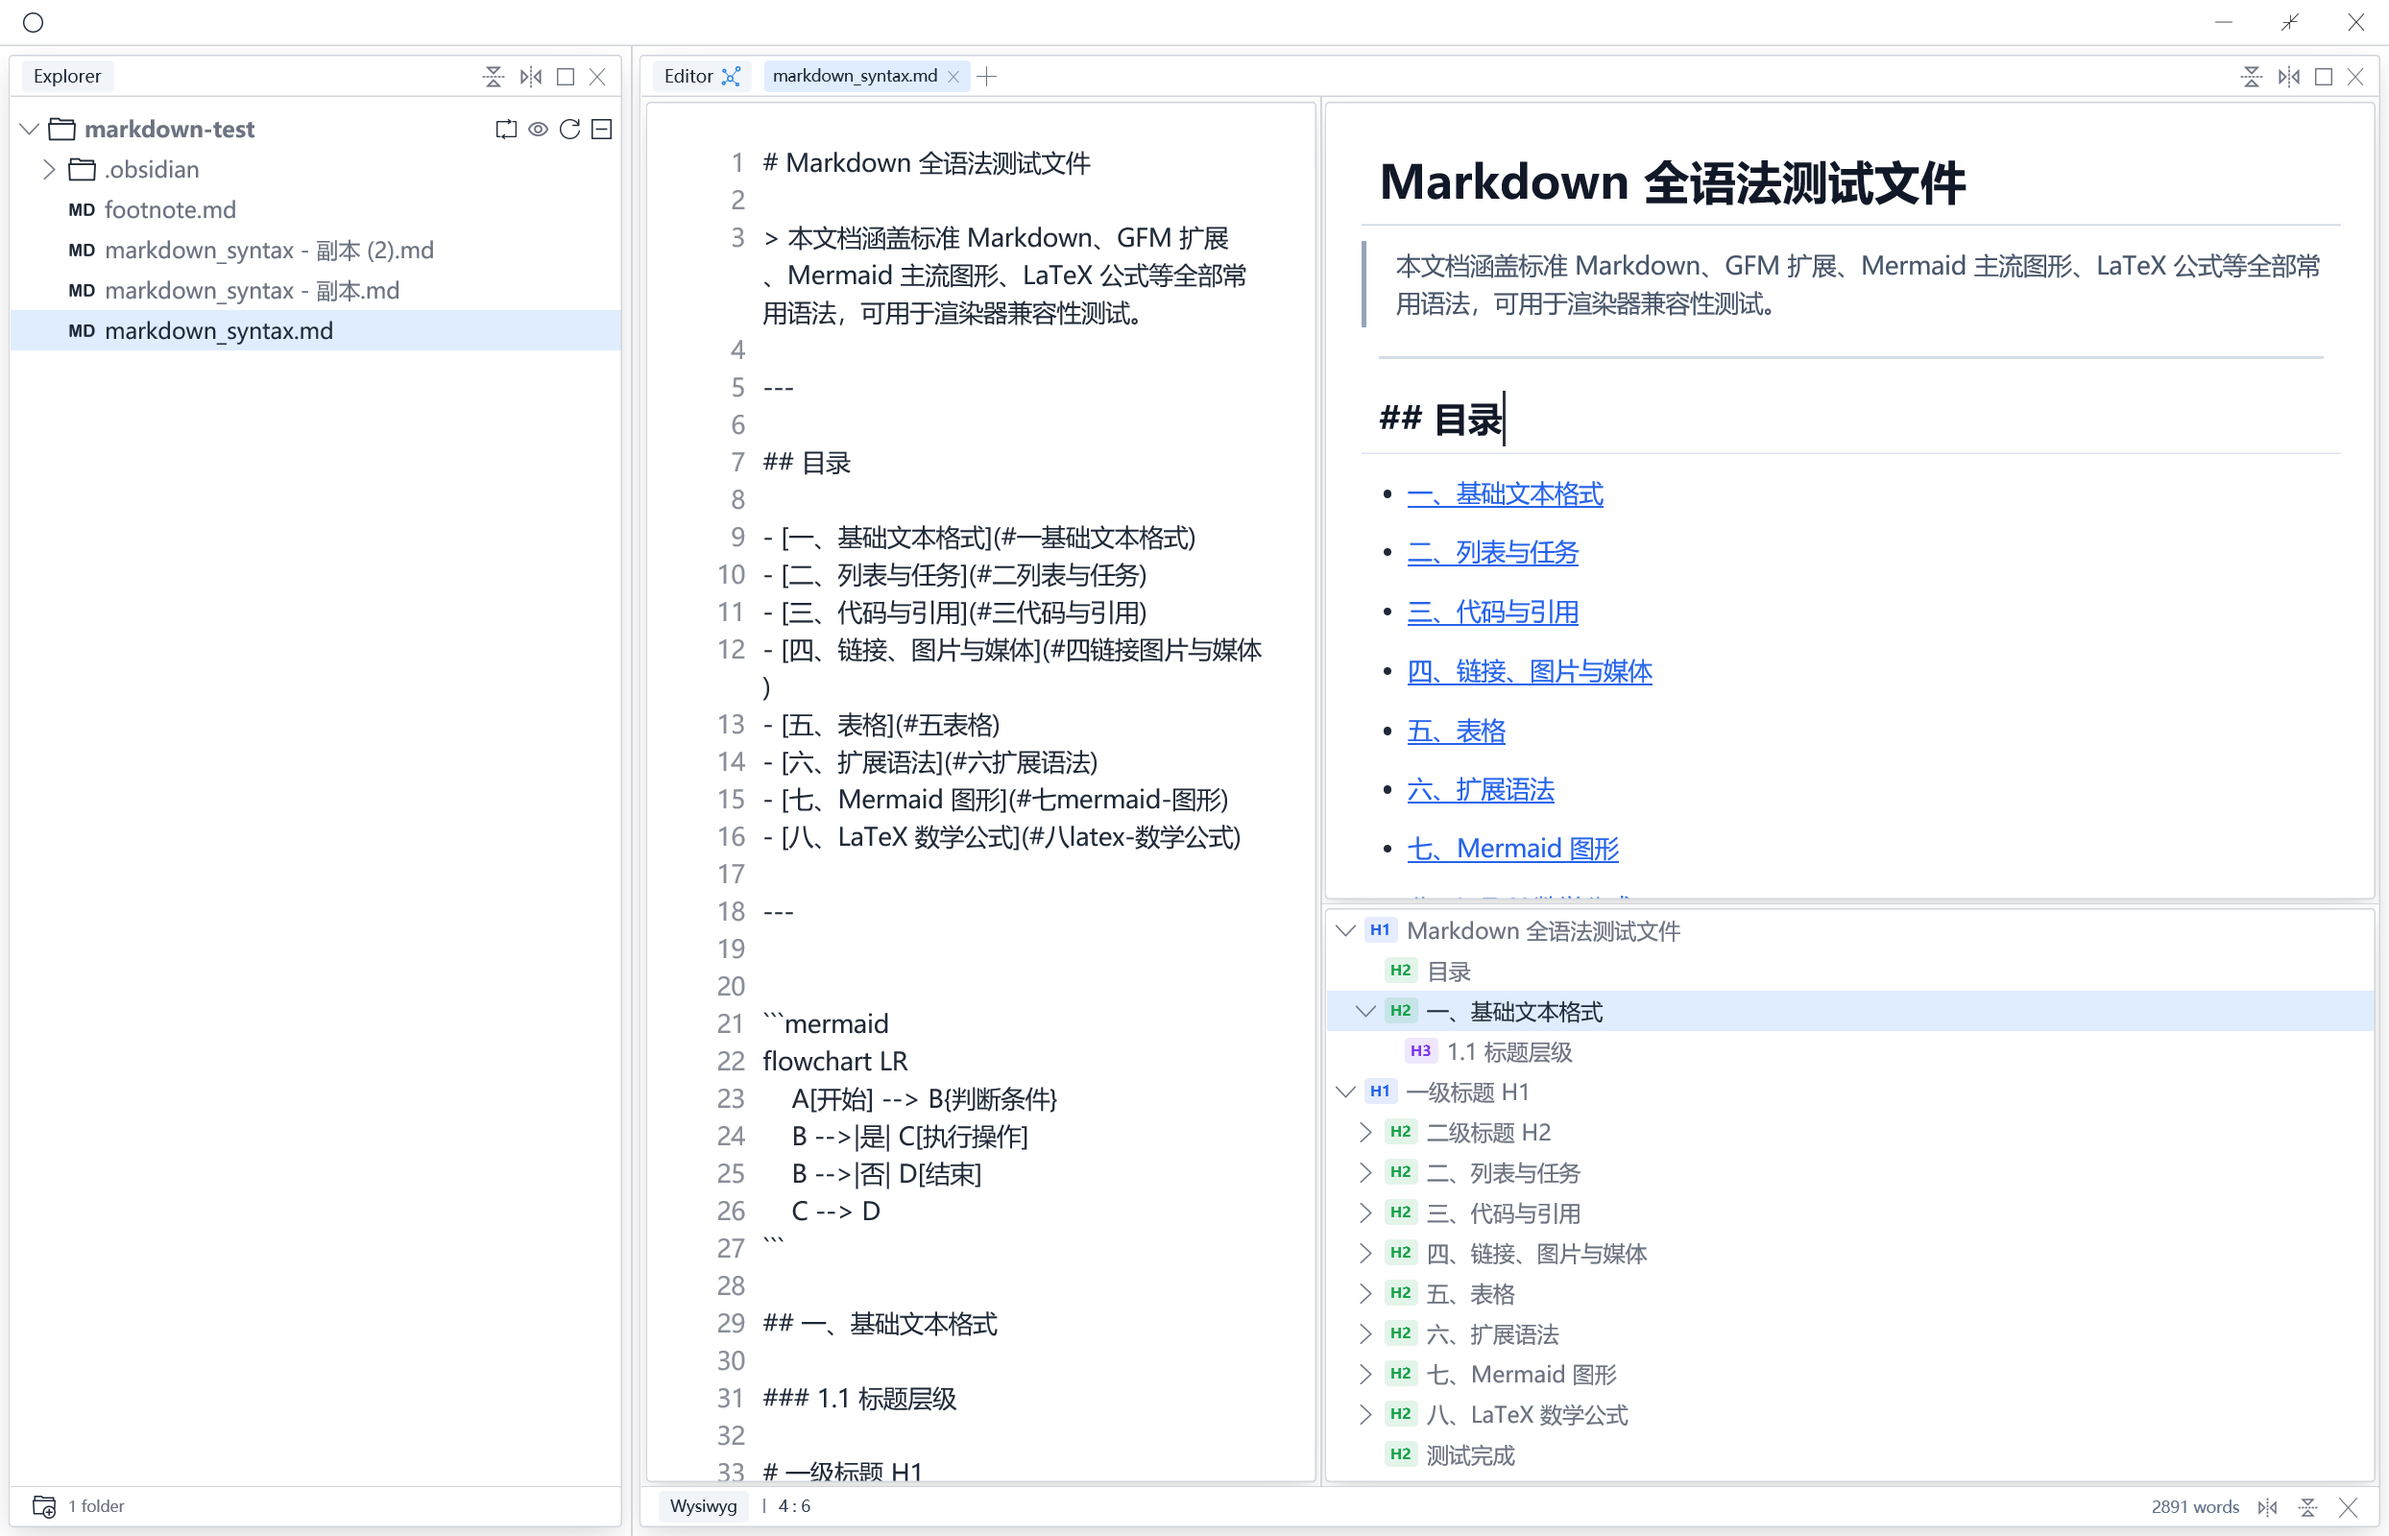
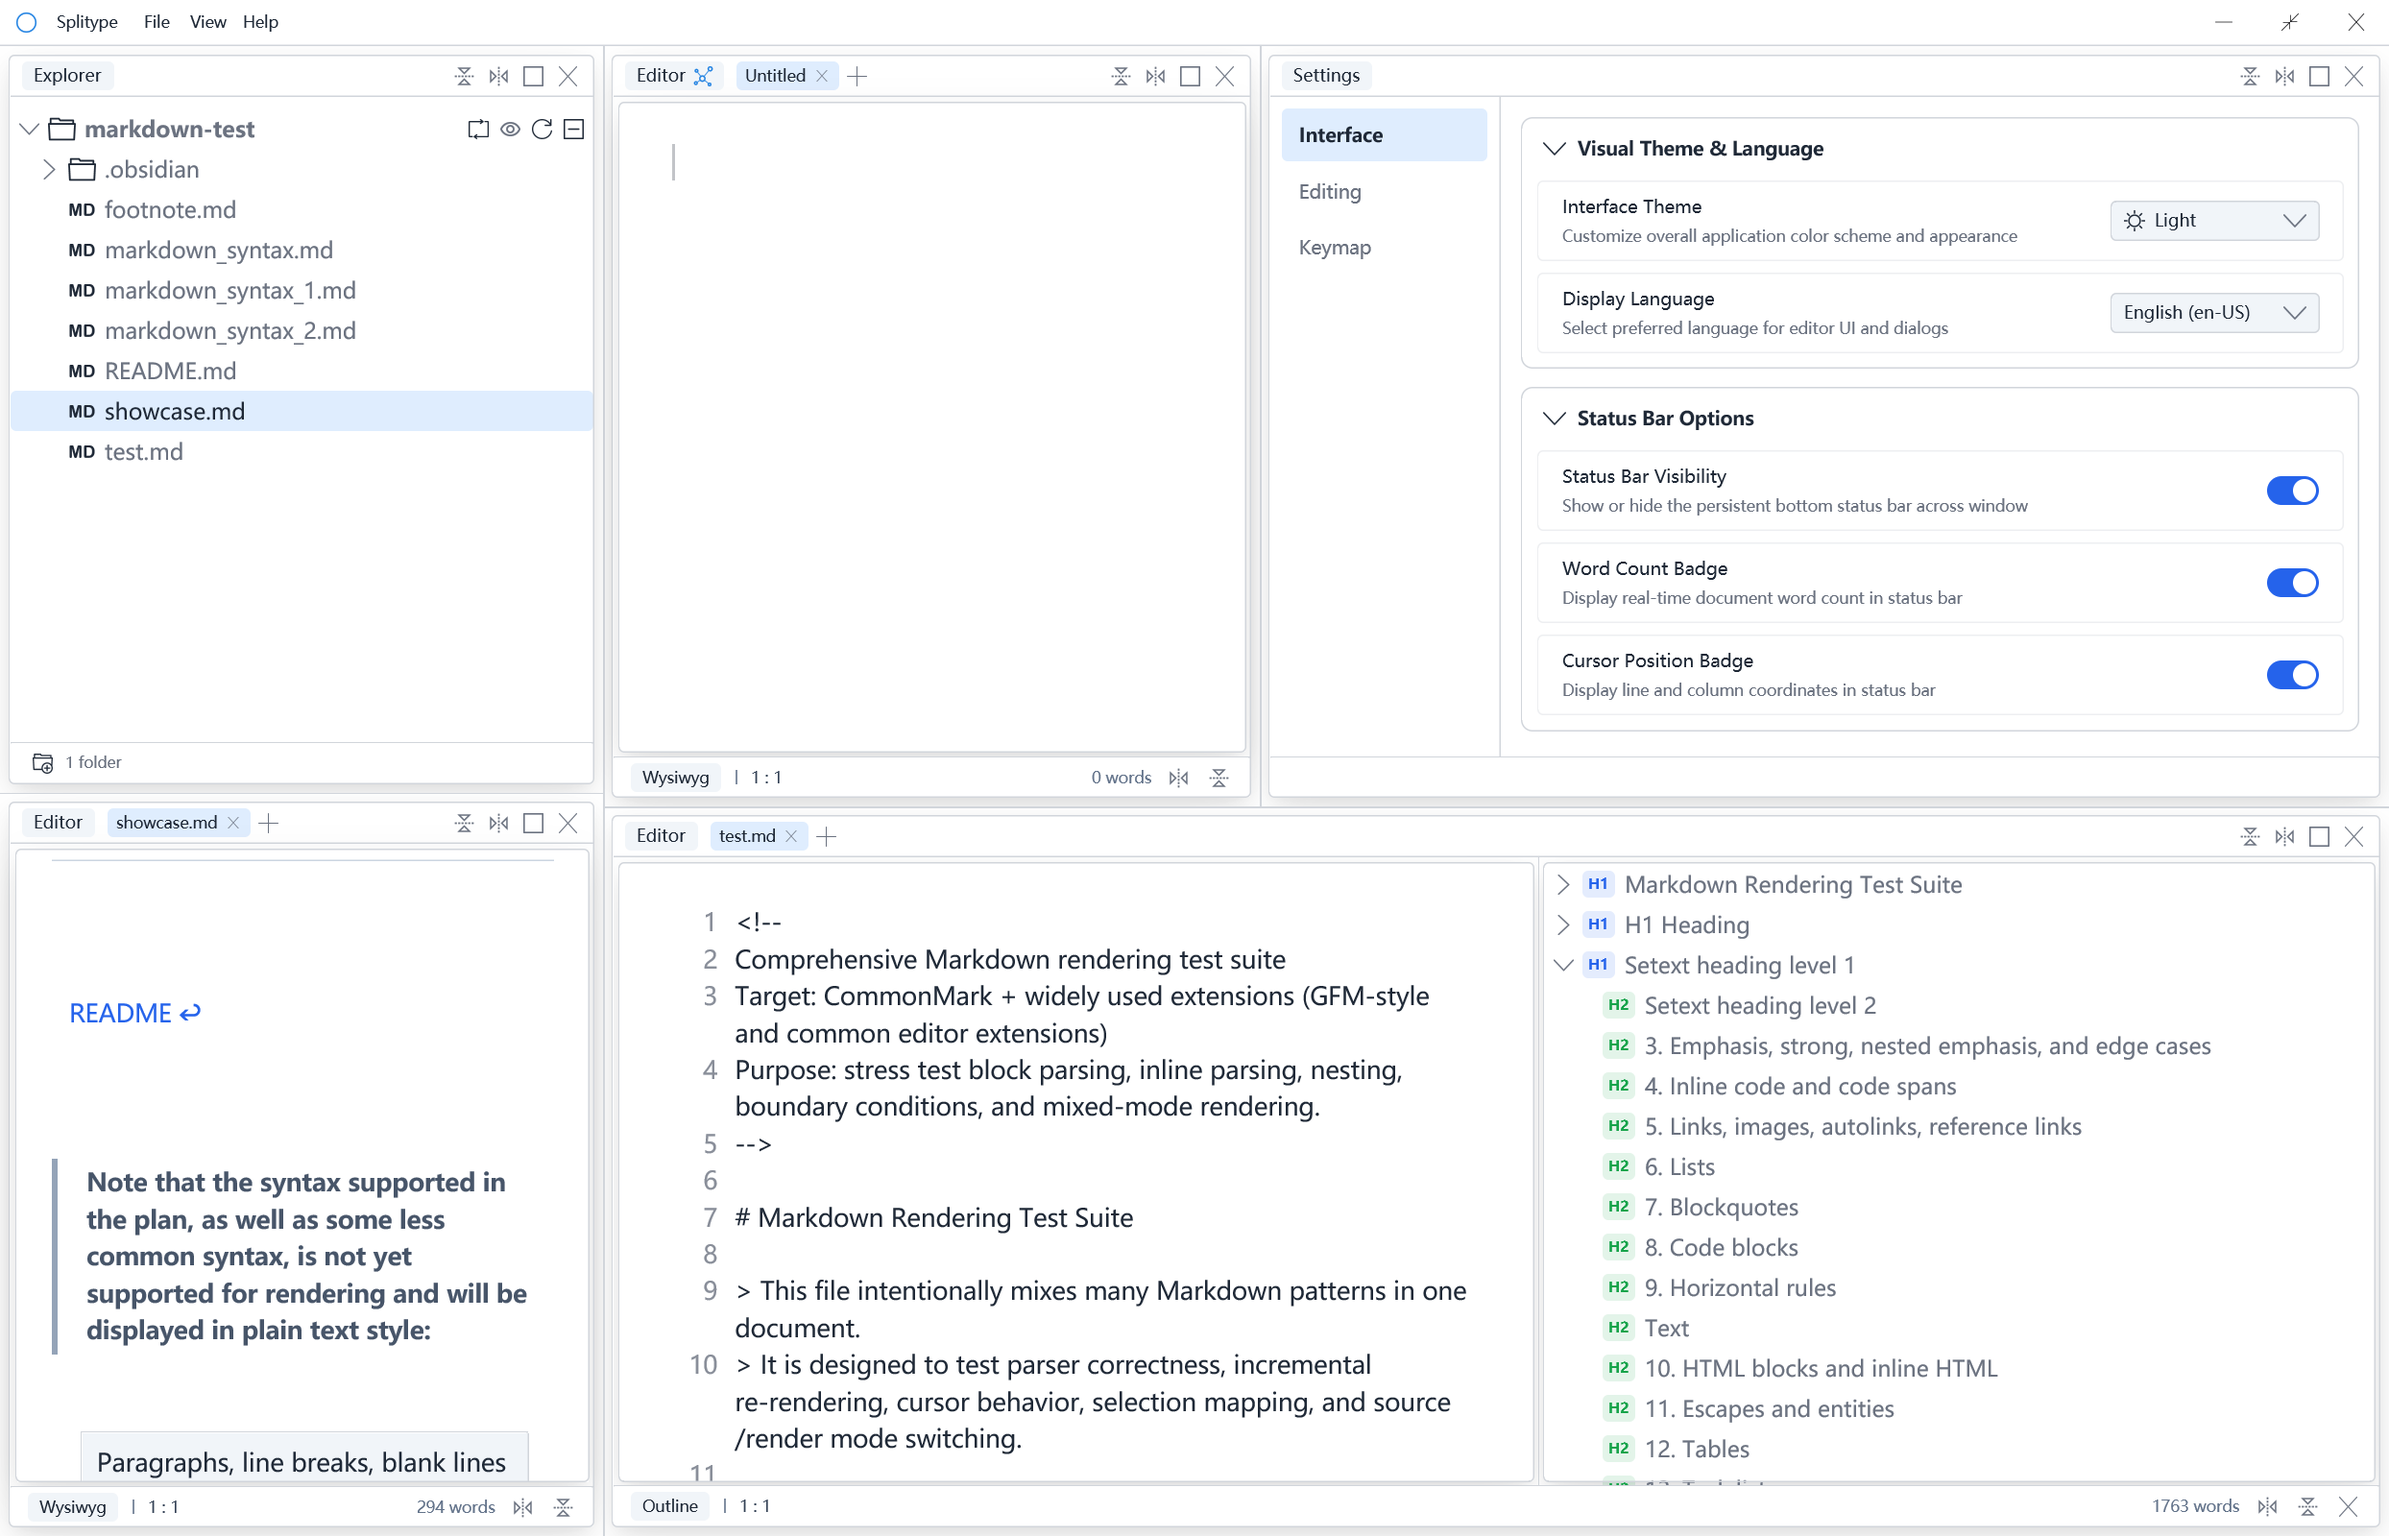
readme

diff --git a/assets/showcase/showcase.md b/assets/showcase/showcase.md
@@ -6,92 +6,67 @@
 
 > **Note that the syntax supported in the plan, as well as some less common syntax, is not yet supported for rendering and will be displayed in plain text style:**
 
-| Paragraphs, line breaks, blank lines |
-| ------------------------------------ |
-|![1](1.png)                           |
 
 | Headings |
 | -------- |
-|![2](2.png)                           |
+|![Headings](headings.png)                           |
 
 | Emphasis, strong, nested emphasis, and edge cases |
 | ------------------------------------------------- |
-|![3](3.png)                                        |
+|![Emphasis](emphasis.png)                                        |
 
 | Inline code and code span |
 | ------------------------- |
-|![4](4.png)                |
+|![Inline](inline.png)                |
 
-| Links, images, autolinks, reference links |
+<!--| Links, images, autolinks, reference links |
 | ----------------------------------------- |
-|![5](5.png)                                |
+|![Image](image.png)                                |-->
 
 | Lists |
 | ----- |
-|![6](6.png)    |
-|![61](6_1.png) |
+|![List](list.png)    |
 
 | Blockquotes |
 | ----------- |
-|![7](7.png)  |
+|![Quote](quote.png)  |
 
 | Code blocks |
 | ----------- |
-|![8](8.png)    |
-|![81](8_1.png) |
-|![82](8_2.png) |
+|![code_blocks](code_blocks.png)    |
 
-| Horizontal rules |
-| ---------------- |
-|![9](9.png)       |
-
-| HTML blocks |
-| ----------- |
-|![10](10.png) |
-
-| Escapes and entities |
-| -------------------- |
-|![11](11.png)         |
 
 | Table block |
 | ----------- |
-|![12](12.png) |
+|![Table](table.png) |
 
 | Task lists |
 | ---------- |
-|![13](13.png) |
+|![Task](task.png) |
 
 | Footnotes |
 | --------- |
-|![14](14.png) |
+|![Footnote](footnote.png) |
 
 | Strikethrough |
 | ------------- |
-|![15](15.png)  |
+|![Strikethrough ](strikethrough.png)  |
 
-| Definition list style |
-| --------------------- |
-|![16](16.png)          |
 
 | Superscript and subscript style |
 | ------------------------------- |
-|![17](17.png)                    |
+|![Superscript and subscript](superscript_subscript.png)                    |
 
-| Emoji and mention style |
+<!--| Emoji and mention style |
 | ----------------------- |
 |![18](18.png)            |
 
-> Tip: The Emoji index has not been created, but directly entering Emoji characters is supported for rendering.
+> Tip: The Emoji index has not been created, but directly entering Emoji characters is supported for rendering.-->
 
 | Math style (LaTeX) |
 | ------------------ |
-|![19](19.png)       |
+|![Latex](latex.png)       |
 
 | Callout style |
 | ------------- |
-|![20](20.png)  |
-
-| Mixed tests |
-| ----------- |
-|![21](21.png)    |
-|![211](21_1.png) |
+|![Callout](callout.png)  |

diff --git a/docs/README.zh-CN.md b/docs/README.zh-CN.md
@@ -29,15 +29,15 @@
 
 |       SPLIT                     |
 | -------------------------------- |
-| ![预览](./assets/showcase/split.png) | 
+| ![预览](../assets/showcase/split.png) | 
 
 
 ### 多模态编辑
 > Splitype 分屏预览编辑和实时编辑两种工作流
 
-| 源码编辑                         | 所见即所得编辑                   |              预览                  |
-| -------------------------------- | --------------------------------- | -------------------------------- |
-| ![预览](./assets/showcase/source_code.png) | ![预览](./assets/showcase/wysiwyg.png) | ![预览](./assets/showcase/preview.png) |
+| 分屏编辑                         | 所见即所得编辑                   |
+| -------------------------------- | -------------------------------- |
+| ![预览](../assets/showcase/workflow_source-preview.png) | ![预览](../assets/showcase/workflow_wysiwyg.png) |
 
 
 

diff --git a/README.md b/README.md
@@ -35,9 +35,9 @@
 ### Multi-modal editing
 > Splitype offers two workflows: split-preview editing and live WYSIWYG editing.
 
-| Source editing                 | WYSIWYG editing                |              Preview           |
-| -------------------------------- | --------------------------------- | -------------------------------- |
-| ![Preview](./assets/showcase/source_code.png) | ![Preview](./assets/showcase/wysiwyg.png) | ![Preview](./assets/showcase/preview.png) |
+| Source editing                   | WYSIWYG editing                   |
+| -------------------------------- | --------------------------------- |
+| ![Preview](./assets/showcase/workflow_source-preview.png) | ![Preview](./assets/showcase/workflow_wysiwyg.png) |
 
 
 
